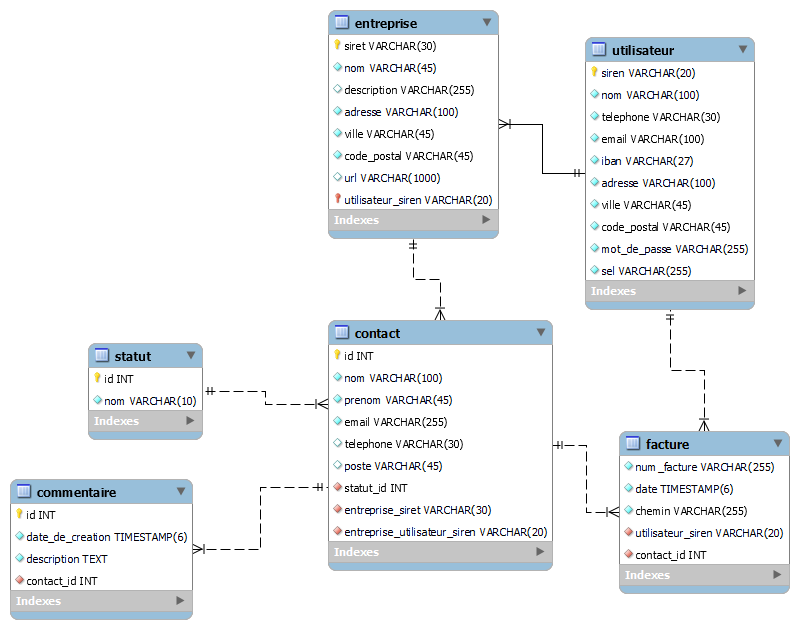
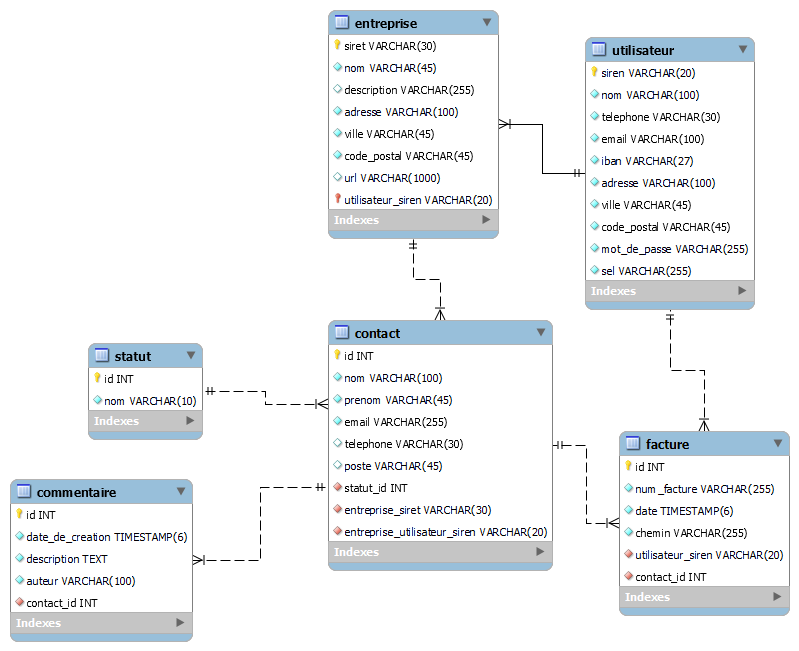
ajustement base de données et readme

diff --git a/crm_python.py b/crm_python.py
@@ -220,8 +220,6 @@ class NewInvoice():
         self.__invoice_id = cursor.fetchone()[0]  
         self.__draw_invoice(num_facture, invoice_infos)
         conn.close()
-        # Affichage de la facture
-
         conn = mysql.connect()
         cursor = conn.cursor()
         query = "SELECT chemin FROM facture WHERE id=%(id)s"
@@ -494,8 +492,6 @@ def add_comment():
     '''
     Permet d'ajouter un commentaire sur un contact
     '''
-    #TODO -> au final il faut rajouter l'utilisateur ID et changer l'UI
-    #a clarifier avec erwann
     if request.form.get('comment'):
         request_dict = {
             'contact_id': request.form.get('contact_id'),

diff --git a/README.md b/README.md
@@ -29,44 +29,28 @@ Ce projet est un projet d'école consistant à créer un site de CRM en python a
 
 ## Contenu
 
-### Backend
-
-- Page de connexion
-- Page de création de compte
-- Connexion à la base de données
-- Création de nouveaux contacts
-- Page 404
-
-### Frontend
-
-- Navbar (80%)
-- Page de connexion
-- Page 404 (90%)
-- index (70%)
-
 ## Aperçu
 
-#TODO
+![Modèle physique de donnée](static/media/img/index.png)
+![Modèle physique de donnée](static/media/img/login.png)
 
 ## Responsive ?
 
 Le projet est adapté pour les plateformes mobiles, tablettes ordinateurs (sauf 4K)
-
-## TODO LIST
-
-### Frontend
-
-- Finir la navbar, la page de connexion, et la page 404
-- Page de création de nouveaux contacts
 
 ## Installation du projet
 
 ### Prérequis
 
 - Python
-- Flask
 
-#TODO
+Il vous faudra d'abord installer les bibliothèques Flask, flaskext-mysql, reportlab, argon2 et datetime avec la commande pip install
+
+Une fois cela fait, il vous faudra créer une base de données, comme par exemple sur PHPMyAdmin, appelée crm de préférence pour simplifier la suite.
+
+Vous devrez ensuite importer le fichier sql présent dans le dossier database dans votre base de données.
+
+Enfin, il vous faudra plus que lancer le serveur avec la commande 'python ./crm_python' et vous connecter avec votre navigateur web !
 
 ## License
 
